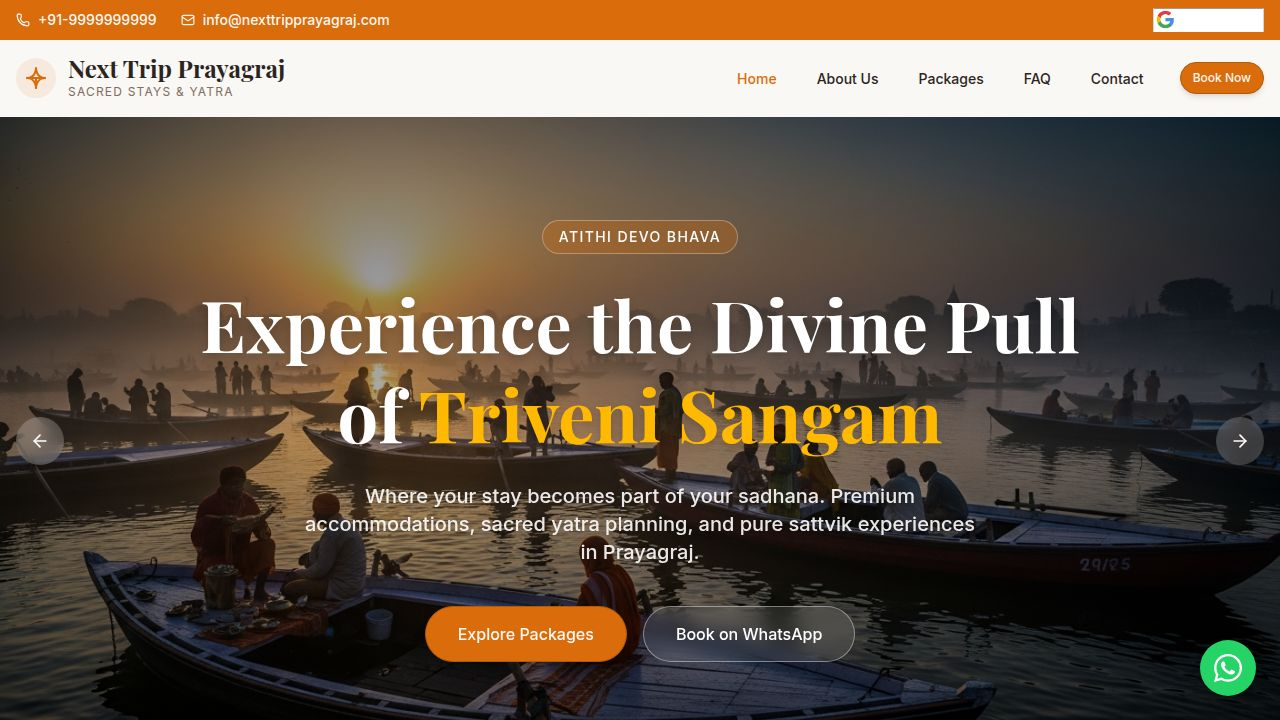
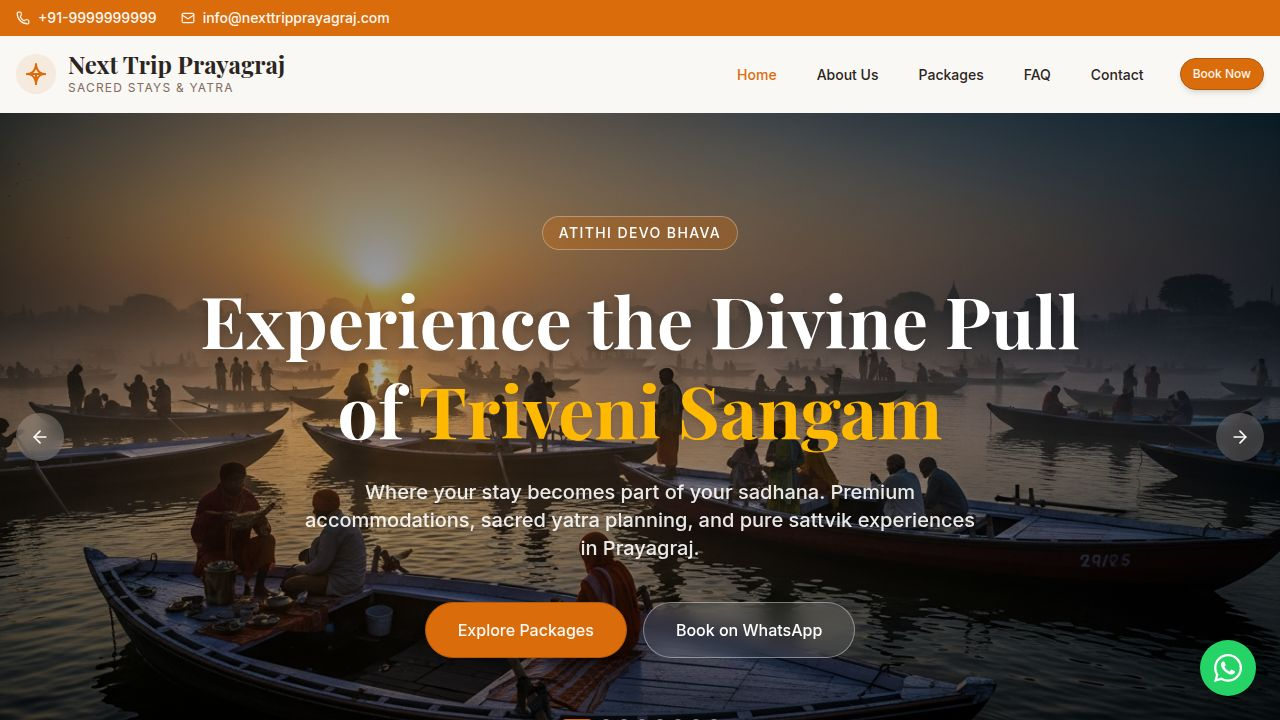
Add option to switch back to English
Adds a "View in English" button to the header and mobile menu that appears when the page is auto-translated, allowing users to easily revert to English.

Replit-Commit-Author: Agent
Replit-Commit-Session-Id: 88d4b1de-b30d-4463-bb0e-af712b0265b6
Replit-Commit-Checkpoint-Type: full_checkpoint
Replit-Commit-Event-Id: 047d7dc4-5441-43d6-8660-15dd29ada1c3
Replit-Commit-Screenshot-Url: https://storage.googleapis.com/screenshot-production-us-central1/5bd82e83-5aa1-4e43-a396-20570286a8b2/88d4b1de-b30d-4463-bb0e-af712b0265b6/Et5eaW3
Replit-Helium-Checkpoint-Created: true

diff --git a/artifacts/next-trip-prayagraj/src/components/Layout.tsx b/artifacts/next-trip-prayagraj/src/components/Layout.tsx
@@ -1,14 +1,32 @@
 import React, { useState, useEffect } from 'react';
 import { Link, useLocation } from 'wouter';
-import { Phone, Mail, MapPin, Menu, X, Facebook, Instagram, Twitter } from 'lucide-react';
+import { Phone, Mail, MapPin, Menu, X, Facebook, Instagram, Twitter, Globe } from 'lucide-react';
 import { Button } from '@/components/ui/button';
 import { cn } from '@/lib/utils';
 import { FaWhatsapp } from 'react-icons/fa';
 
+function getGoogTransCookie() {
+  const match = document.cookie.match(/(^| )googtrans=([^;]+)/);
+  return match ? decodeURIComponent(match[2]) : null;
+}
+
+function switchToEnglish() {
+  document.cookie = 'googtrans=; expires=Thu, 01 Jan 1970 00:00:00 GMT; path=/';
+  document.cookie = 'googtrans=; expires=Thu, 01 Jan 1970 00:00:00 GMT; path=/; domain=' + window.location.hostname;
+  window.location.reload();
+}
+
 export default function Layout({ children }: { children: React.ReactNode }) {
   const [isScrolled, setIsScrolled] = useState(false);
   const [mobileMenuOpen, setMobileMenuOpen] = useState(false);
+  const [isTranslated, setIsTranslated] = useState(false);
   const [location] = useLocation();
+
+  useEffect(() => {
+    const cookie = getGoogTransCookie();
+    const translated = !!cookie && cookie !== '/en/en' && cookie !== '/auto/en';
+    setIsTranslated(translated);
+  }, []);
 
   useEffect(() => {
     const handleScroll = () => {
@@ -46,7 +64,17 @@ export default function Layout({ children }: { children: React.ReactNode }) {
               <span>info@nexttripprayagraj.com</span>
             </a>
           </div>
-          <div className="flex items-center gap-4"></div>
+          <div className="flex items-center gap-4">
+            {isTranslated && (
+              <button
+                onClick={switchToEnglish}
+                className="flex items-center gap-1.5 text-xs text-white/90 hover:text-white border border-white/30 hover:border-white/70 rounded-full px-3 py-1 transition-all"
+              >
+                <Globe size={12} />
+                <span>View in English</span>
+              </button>
+            )}
+          </div>
         </div>
       </div>
 
@@ -108,6 +136,15 @@ export default function Layout({ children }: { children: React.ReactNode }) {
         {mobileMenuOpen && (
           <div className="md:hidden absolute top-full left-0 w-full bg-background border-b border-border shadow-lg animate-in slide-in-from-top-2">
             <div className="container mx-auto px-4 py-6 flex flex-col gap-4">
+              {isTranslated && (
+                <button
+                  onClick={switchToEnglish}
+                  className="flex items-center gap-2 text-sm font-medium text-primary border border-primary/30 hover:border-primary rounded-full px-4 py-2 w-fit transition-all"
+                >
+                  <Globe size={14} />
+                  <span>View in English</span>
+                </button>
+              )}
               {navLinks.map((link) => (
                 <Link 
                   key={link.name}
